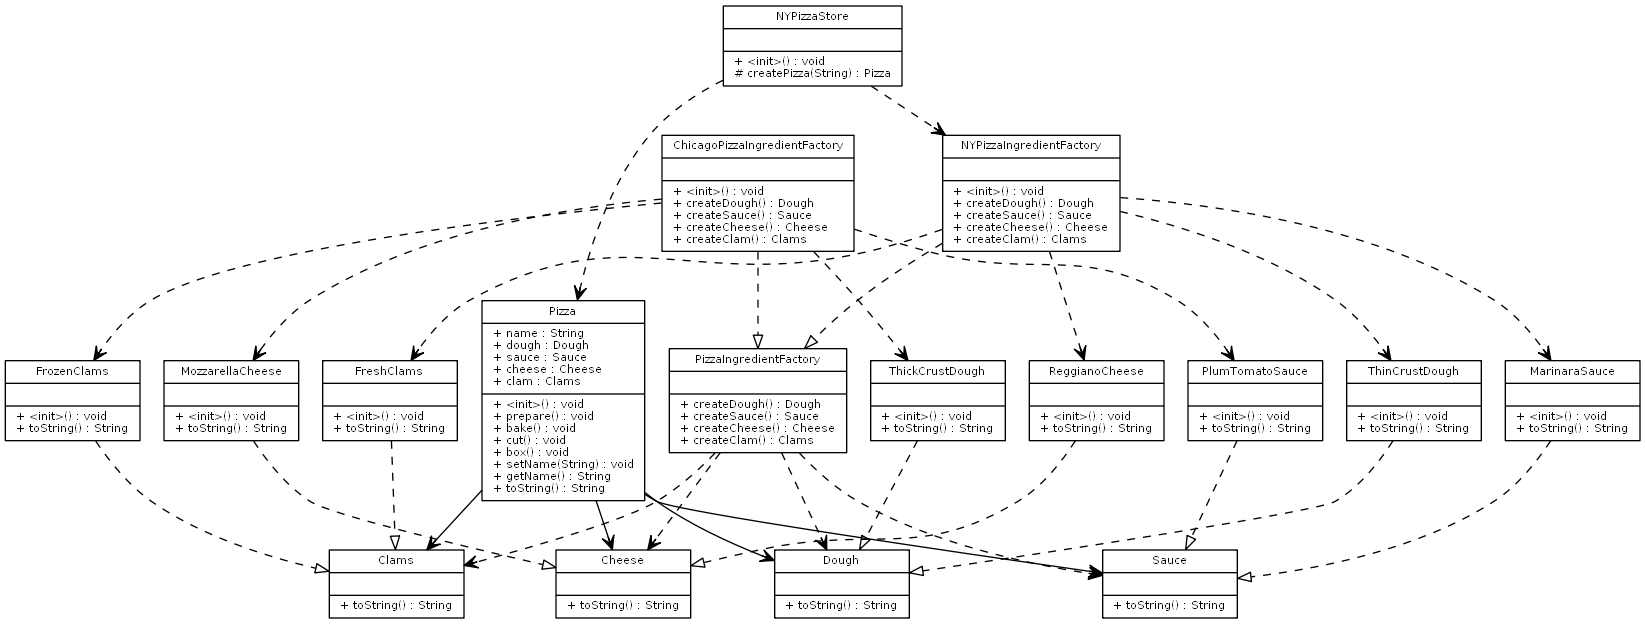
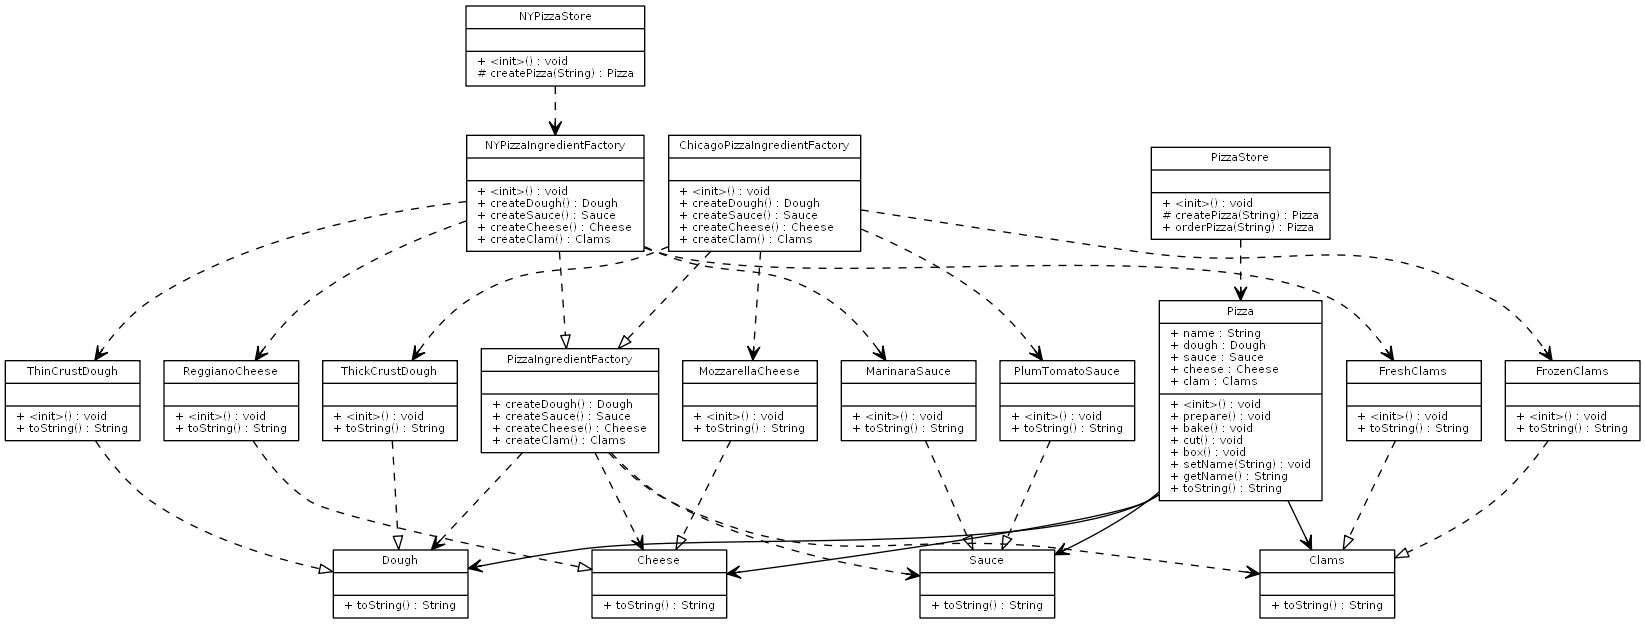
Added Pizza store to pizza factory

diff --git a/src/headfirst/factory/pizzaaf/PizzaStore.java b/src/headfirst/factory/pizzaaf/PizzaStore.java
@@ -1,0 +1,16 @@
+package headfirst.factory.pizzaaf;
+
+public abstract class PizzaStore {
+ 
+	protected abstract Pizza createPizza(String item);
+ 
+	public Pizza orderPizza(String type) {
+		Pizza pizza = createPizza(type);
+		System.out.println("--- Making a " + pizza.getName() + " ---");
+		pizza.prepare();
+		pizza.bake();
+		pizza.cut();
+		pizza.box();
+		return pizza;
+	}
+}
